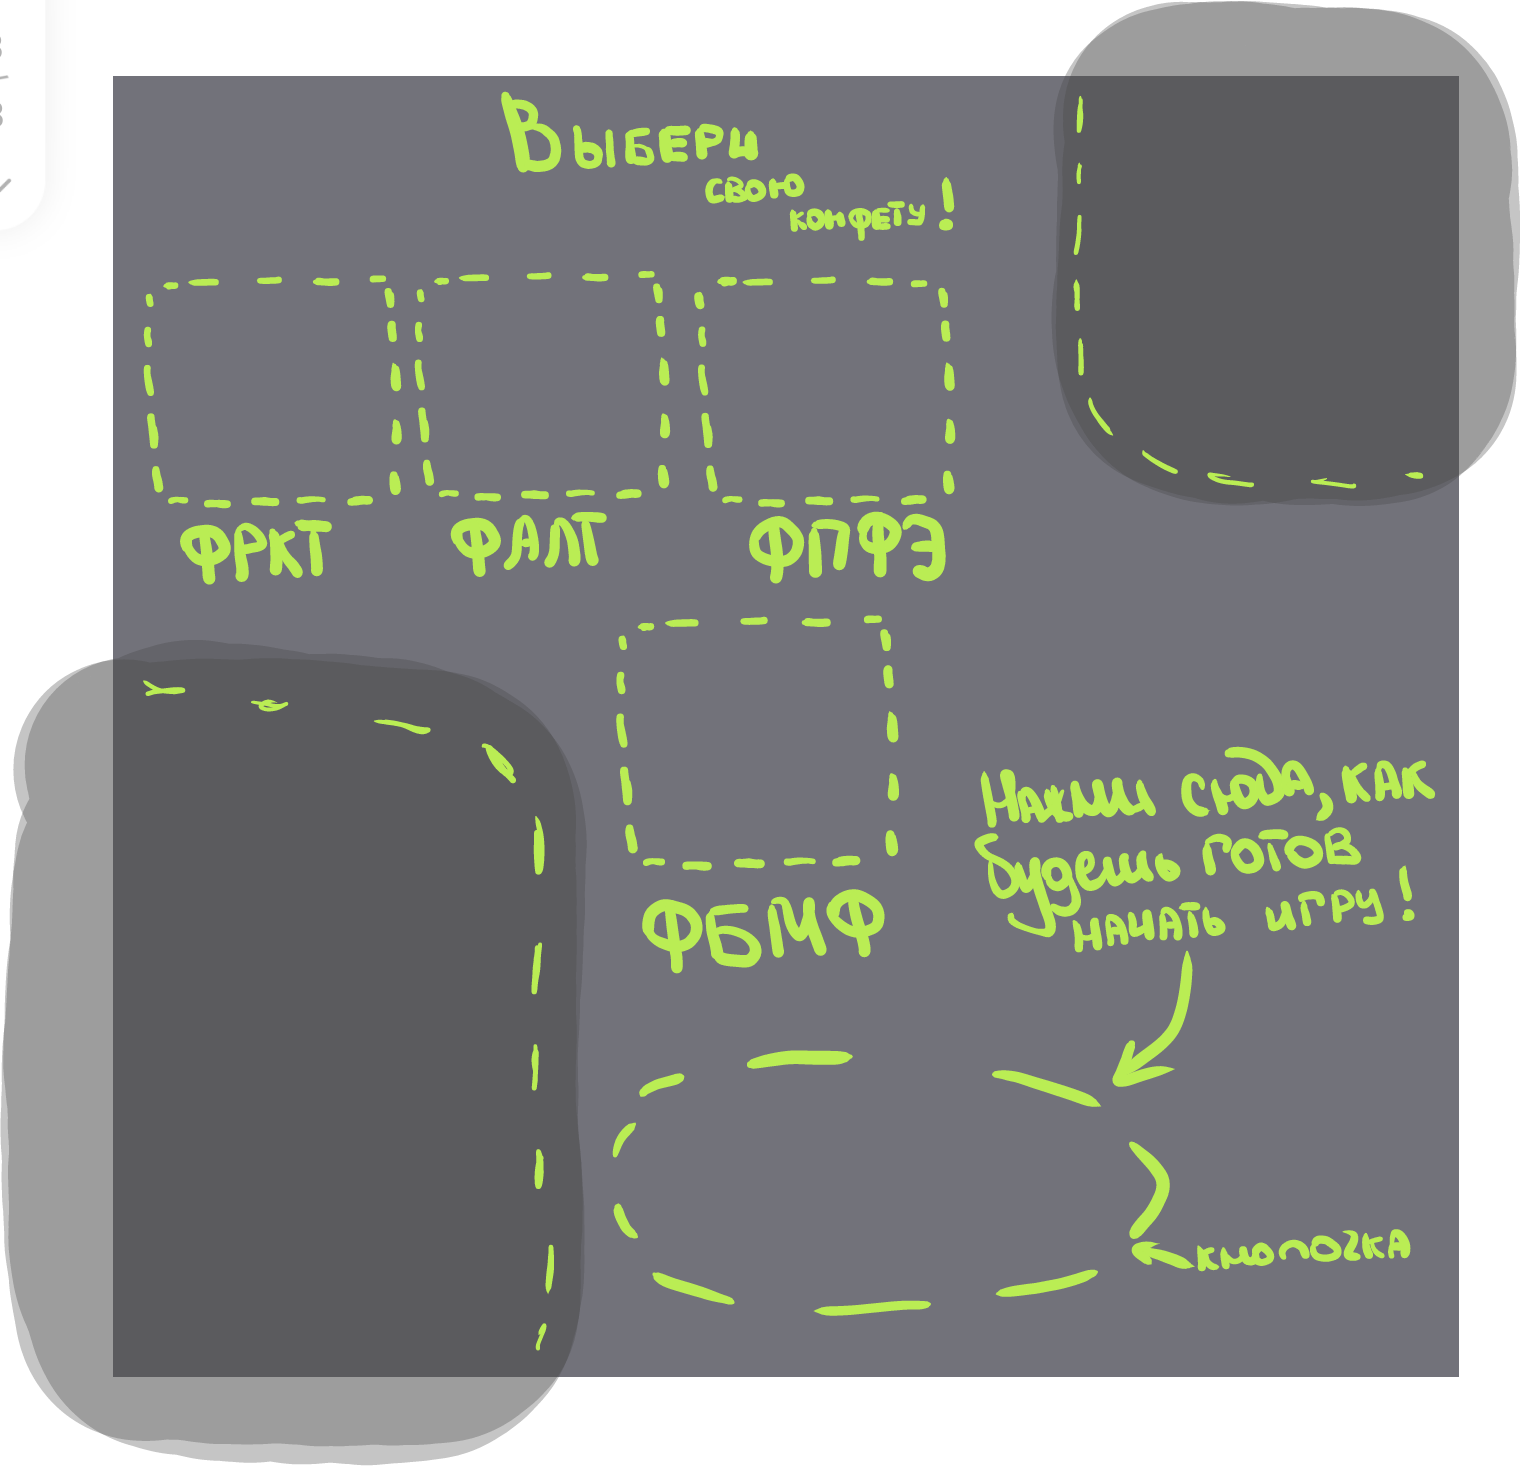
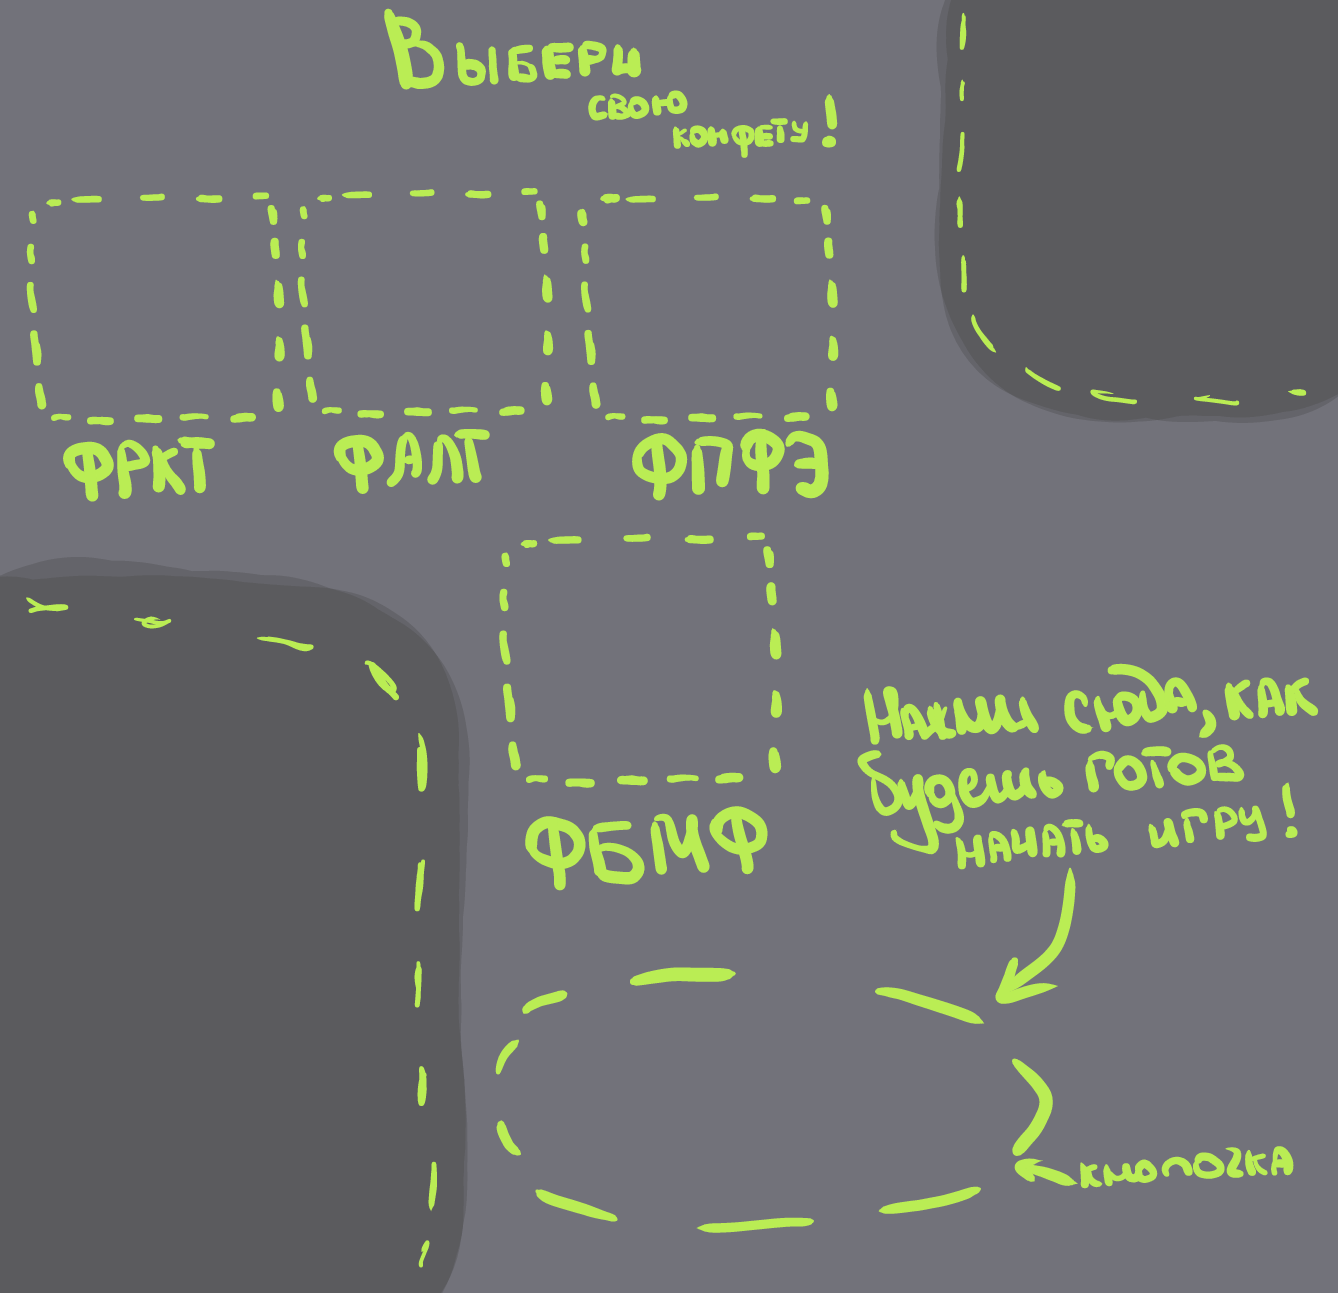
Предфинальные правки

diff --git a/perehod.py b/perehod.py
@@ -3,98 +3,69 @@ import sys
 import os
 import subprocess
 from utils import change_state
-
-pygame.init()
-
-# Определение размеров окна
-screen_width = 800
-screen_height = 600
-
-# Инициализация переменных состояния
-current_state = "initial_state"  # Replace "initial_state" with the actual starting state of your program
-current_level = 1  # Replace 1 with the actual starting level of your program
-
-# Создание объекта для отображения
-screen = pygame.display.set_mode((screen_width, screen_height))
-pygame.display.set_caption("Листание картинок")
-
-# Загрузка изображений
-images = ["urovenperehod.png", "levl2_pixian_ai.png", "levl3_pixian_ai.png"]
-current_image_index = 0
-
-# Загрузка изображения для фона
-background_image = pygame.image.load(os.path.join("images", images[current_image_index]))
-background_image = pygame.transform.scale(background_image, (screen_width, screen_height))
-
-# Шрифт для текста на кнопках
-font = pygame.font.Font(None, 36)
-
-# Класс для кнопок
-class Button:
-    def __init__(self, x, y, image_path, scale_factor=0.5, action=None):
-        original_image = pygame.image.load(image_path)
-        self.image = pygame.transform.scale(original_image, (int(original_image.get_width() * scale_factor),
-                                                             int(original_image.get_height() * scale_factor)))
-        self.rect = self.image.get_rect(center=(x, y))
-        self.action = action
-
-    def draw(self, screen):
-        screen.blit(self.image, self.rect.topleft)
-
 # Создание кнопок
 def next_image():
-    global current_image_index
+    global current_image_index,images,WIDTH,HEIGHT
     current_image_index = (current_image_index + 1) % len(images)
     update_background()
 
 def previous_image():
-    global current_image_index
+    global current_image_index,images,WIDTH,HEIGHT
     current_image_index = (current_image_index - 1) % len(images)
     update_background()
 
 def update_background():
-    global background_image
+    global background_image,images,WIDTH,HEIGHT
+    background_image = pygame.image.load(os.path.join("images", images[current_image_index]))
+    background_image = pygame.transform.scale(background_image, (WIDTH,HEIGHT))
+
+def start_game():
+    global current_image_index,chosen_level,running
+    chosen_level=current_image_index+1
+    running=False
+def select_level(screen,Button,screen_width,screen_height):
+    global current_image_index,images,WIDTH,HEIGHT,background_image,running,chosen_level
+# Загрузка изображений
+    images = ["urovenperehod.png", "levl2_pixian_ai.png", "levl3_pixian_ai.png"]
+    current_image_index = 0
+    WIDTH,HEIGHT=screen_width,screen_height
+    # Загрузка изображения для фона
     background_image = pygame.image.load(os.path.join("images", images[current_image_index]))
     background_image = pygame.transform.scale(background_image, (screen_width, screen_height))
 
-# Modify the start_game1 function to run main.py using subprocess
-def start_game1():
-    global current_state, current_level
+    # Шрифт для текста на кнопках
+    font = pygame.font.Font(None, 36)
 
-    # Change the state to main.py
-    current_state, current_level = change_state(current_state, current_level, "main.py")
+    next_button = Button(screen_width - 50, screen_height // 2, "images/right_pixian_ai.png", scale_factor=0.1, action=next_image)
+    previous_button = Button(50, screen_height // 2, "images/left_pixian_ai.png", scale_factor=0.1, action=previous_image)
+    start_game_button = Button(screen_width // 2, screen_height - 50, "images/play_pixian_ai.png", scale_factor=0.2, action=start_game)
 
-    # Run main.py using subprocess
-    subprocess.run(["python", "main.py"])
+    buttons = [next_button, previous_button, start_game_button]
 
-next_button = Button(screen_width - 50, screen_height // 2, "images/right_pixian_ai.png", scale_factor=0.1, action=next_image)
-previous_button = Button(50, screen_height // 2, "images/left_pixian_ai.png", scale_factor=0.1, action=previous_image)
-start_game_button = Button(screen_width // 2, screen_height - 50, "images/play_pixian_ai.png", scale_factor=0.2, action=start_game1)
+    # Основной цикл игры
+    while running:
+        for event in pygame.event.get():
+            if event.type == pygame.QUIT:
+                running=False
+            elif event.type == pygame.MOUSEBUTTONDOWN:
+                for button in buttons:
+                    if button.rect.collidepoint(event.pos):
+                        if button.action:
+                            button.action()
 
-buttons = [next_button, previous_button, start_game_button]
+        # Отрисовка фона
+        screen.blit(background_image, (0, 0))
 
-# Основной цикл игры
-while True:
-    for event in pygame.event.get():
-        if event.type == pygame.QUIT:
-            sys.exit()
-        elif event.type == pygame.MOUSEBUTTONDOWN:
-            for button in buttons:
-                if button.rect.collidepoint(event.pos):
-                    if button.action:
-                        button.action()
-        elif event.type == pygame.KEYDOWN:
-            if event.key == pygame.K_RIGHT:
-                next_image()
-            elif event.key == pygame.K_LEFT:
-                previous_image()
+        # Отрисовка кнопок
+        for button in buttons:
+            button.draw(screen)
 
-    # Отрисовка фона
-    screen.blit(background_image, (0, 0))
-
-    # Отрисовка кнопок
-    for button in buttons:
-        button.draw(screen)
-
-    # Обновление экрана
-    pygame.display.flip()
+        # Обновление экрана
+        pygame.display.flip()
+    return chosen_level
+current_image_index=0
+images=None
+WIDTH,HEIGHT=0,0
+background_image=None
+running=True
+chosen_level=None

diff --git a/shop.py b/shop.py
@@ -2,16 +2,6 @@ import pygame
 import sys
 import subprocess
 
-pygame.init()
-
-screen_width = 800
-screen_height = 600
-
-screen = pygame.display.set_mode((screen_width, screen_height))
-pygame.display.set_caption("Магазин костюмов")
-
-font = pygame.font.Font(pygame.font.match_font('arial'), 36)
-
 class Costume:
     def __init__(self, name, image_path, width=100, height=100, x=0, y=0):
         self.name = name
@@ -23,54 +13,55 @@ class Costume:
 
     def draw(self, screen):
         screen.blit(self.image, self.rect.topleft)
-
+def select_costume(screen,screen_width,screen_height):
 # Load a background image
-background_image = pygame.image.load("images/feed.png")
-background_image = pygame.transform.scale(background_image, (screen_width, screen_height))
+    background_image = pygame.image.load("images/feed.png")
+    background_image = pygame.transform.scale(background_image, (screen_width, screen_height))
 
-costumes = [
-    Costume("Costume 1", "images/candy1.png", x=95, y=115),
-    Costume("Costume 2", "images/candy2.png", x=240, y=115),
-    Costume("Costume 3", "images/candy3.png", x=385, y=115),
-    Costume("Costume 4", "images/candy4.png", x=350, y=255),
-]
+    costumes = [
+        Costume("Costume 1", "images/candy1.png", x=0.072*screen_width, y=0.188*screen_height),
+        Costume("Costume 2", "images/candy2.png", x=0.252*screen_width, y=0.188*screen_height),
+        Costume("Costume 3", "images/candy3.png", x=0.438*screen_width, y=0.188*screen_height),
+        Costume("Costume 4", "images/candy4.png", x=0.416*screen_width, y=0.438*screen_height),
+    ]
 
-selected_costume = None
+    selected_costume = None
 
-# Button parameters
-button_width = 280
-button_height = 180
-button_x = 325
-button_y = 395
+    # Button parameters
+    button_width = 280
+    button_height = 180
+    button_x = 0.322*screen_width
+    button_y = 0.708*screen_height
 
 
-play_button_image = pygame.image.load("images/igrat_pixian_ai.png")
-play_button_image = pygame.transform.scale(play_button_image, (button_width, button_height))
-play_button_rect = play_button_image.get_rect(topleft=(button_x, button_y))
+    play_button_image = pygame.image.load("images/igrat_pixian_ai.png")
+    play_button_image = pygame.transform.scale(play_button_image, (button_width, button_height))
+    play_button_rect = play_button_image.get_rect(topleft=(button_x, button_y))
+    playing=False
+    running=True
+    while running:
+        for event in pygame.event.get():
+            if event.type == pygame.QUIT:
+                running=False
+            elif event.type == pygame.MOUSEBUTTONDOWN:
+                for costume in costumes:
+                    if costume.rect.collidepoint(event.pos):
+                        selected_costume = costume
 
-while True:
-    for event in pygame.event.get():
-        if event.type == pygame.QUIT:
-            sys.exit()
-        elif event.type == pygame.MOUSEBUTTONDOWN:
-            for costume in costumes:
-                if costume.rect.collidepoint(event.pos):
-                    selected_costume = costume
-                    with open("selected_costume.txt", "w") as file:
-                        file.write(selected_costume.image_filename)
+                if play_button_rect.collidepoint(event.pos) and selected_costume:
+                    # Запустить файл perehod.py
+                    playing=True
+                    running=False
 
-            if play_button_rect.collidepoint(event.pos) and selected_costume:
-                # Запустить файл perehod.py
-                subprocess.run(["python", "perehod.py", f"--costume={selected_costume.image_filename}"])
+        screen.blit(background_image, (0, 0))
 
-    screen.blit(background_image, (0, 0))
+        for costume in costumes:
+            costume.draw(screen)
 
-    for costume in costumes:
-        costume.draw(screen)
+        if selected_costume:
+            pygame.draw.rect(screen, (0, 255, 0), selected_costume.rect, 2)
 
-    if selected_costume:
-        pygame.draw.rect(screen, (0, 255, 0), selected_costume.rect, 2)
+        screen.blit(play_button_image, play_button_rect.topleft)
 
-    screen.blit(play_button_image, play_button_rect.topleft)
-
-    pygame.display.flip()
+        pygame.display.flip()
+    return playing,selected_costume.image_filename

diff --git a/main.py b/main.py
@@ -3,6 +3,18 @@ import numpy as np
 from scipy.optimize import root_scalar
 from objects import *
 from level_reader import *
+from perehod import *
+from shop import *
+class Button:
+    def __init__(self, x, y, image_path, scale_factor=0.2, action=None):
+        original_image = pygame.image.load(image_path)
+        self.image = pygame.transform.scale(original_image, (int(original_image.get_width() * scale_factor),
+                                                             int(original_image.get_height() * scale_factor)))
+        self.rect = self.image.get_rect(center=(x, y))
+        self.action = action
+
+    def draw(self, screen):
+        screen.blit(self.image, self.rect.topleft)
 def draw_text(text,c,size,color=(0,0,0)):
     font=pygame.font.Font(pygame.font.match_font('arial'),size)
     text_surface=font.render(text,True,color)
@@ -13,9 +25,11 @@ def draw_collected(screen,candies_eaten, all_stars):
     draw_text(str(all_stars),(10,10),14)
     screen.blit()
     draw_text(str(candies_eaten),(10,30),14)
-def start_level(number):
+def start_level(number,skin):
     global running
     candies,pins,stars,amnyams,bubbles=read_level(f'level_{number}.txt')
+    for candy in candies.sprites():
+        change_accordingly(skin,candy)
     Roukanken=False
     last_pos=(None,None)
     all_stars=0
@@ -66,6 +80,25 @@ def start_level(number):
         #draw_collected(screen,candies_eaten, all_stars)
         pygame.display.flip()
     return candies_eaten, all_stars
+def choose_level(skin=None):
+    global running
+    level=select_level(screen,Button,WIDTH,HEIGHT)
+    if level is None:
+        running=False
+    else:
+        start_level(level,skin)
+def choose_costume():
+    global running
+    playing,costume=select_costume(screen,WIDTH,HEIGHT)
+    if playing:
+        choose_level(skin=costume)
+    else:
+        running=False
+def quit_the_game():
+    global running
+    running=False
+def change_accordingly(skin,candy):
+    candy.image = pygame.transform.scale(pygame.image.load('images/'+skin), ((55, 55)))   
 SCALE=0.01
 G=np.array([0,9.8])
 FPS=500
@@ -76,19 +109,48 @@ screen=pygame.display.set_mode((WIDTH,HEIGHT))
 pygame.display.set_caption('Это и есть амням')
 level_background=pygame.image.load('images/level_background.png').convert()
 level_background=pygame.transform.scale(level_background, ((WIDTH,HEIGHT)))
-menu_background=pygame.image.load('images/menu_background.png').convert()
-menu_background=pygame.transform.scale(menu_background, ((WIDTH,HEIGHT)))
+background=pygame.image.load('images/menu_background.png').convert()
+background=pygame.transform.scale(background, ((WIDTH,HEIGHT)))
 clock=pygame.time.Clock()
-start_level(1)
+font = pygame.font.Font(pygame.font.match_font('arial'), 36)
+
+start_button = Button(WIDTH // 2, 200, "images/play_pixian_ai.png", scale_factor=0.3, action=choose_level)
+character_button = Button(WIDTH // 2, 300, "images/om_nom_pixian_ai.png", scale_factor=0.3, action=choose_costume)
+exit_button = Button(WIDTH // 2, 400, "images/exit_pixian_ai.png", scale_factor=0.3, action=quit_the_game)
+
+buttons = [start_button, character_button, exit_button]
+
+def change_state(new_state=None):
+    global current_state, current_level
+
+    if current_state == "main_menu":
+        current_state = "perehod.py"
+    elif current_state == "perehod.py":
+        if new_state is None:
+            current_level += 1
+            new_state = f"level_{current_level}.py"  # Adjust this according to your level naming convention
+        current_state = new_state
+
+# Основной цикл игры
 while running:
-    clock.tick(FPS)
     for event in pygame.event.get():
         if event.type == pygame.QUIT:
             running=False
-    
-    screen.blit(menu_background,(0,0))
+        elif event.type == pygame.MOUSEBUTTONDOWN:
+            for button in buttons:
+                if button.rect.collidepoint(event.pos):
+                    if button.action:
+                        button.action()
+
+    # Отрисовка фона
+    screen.blit(background, (0, 0))
+
+    # Отрисовка кнопок
+    for button in buttons:
+        button.draw(screen)
+
+    # Обновление экрана
     pygame.display.flip()
 pygame.quit()
-
 
     
